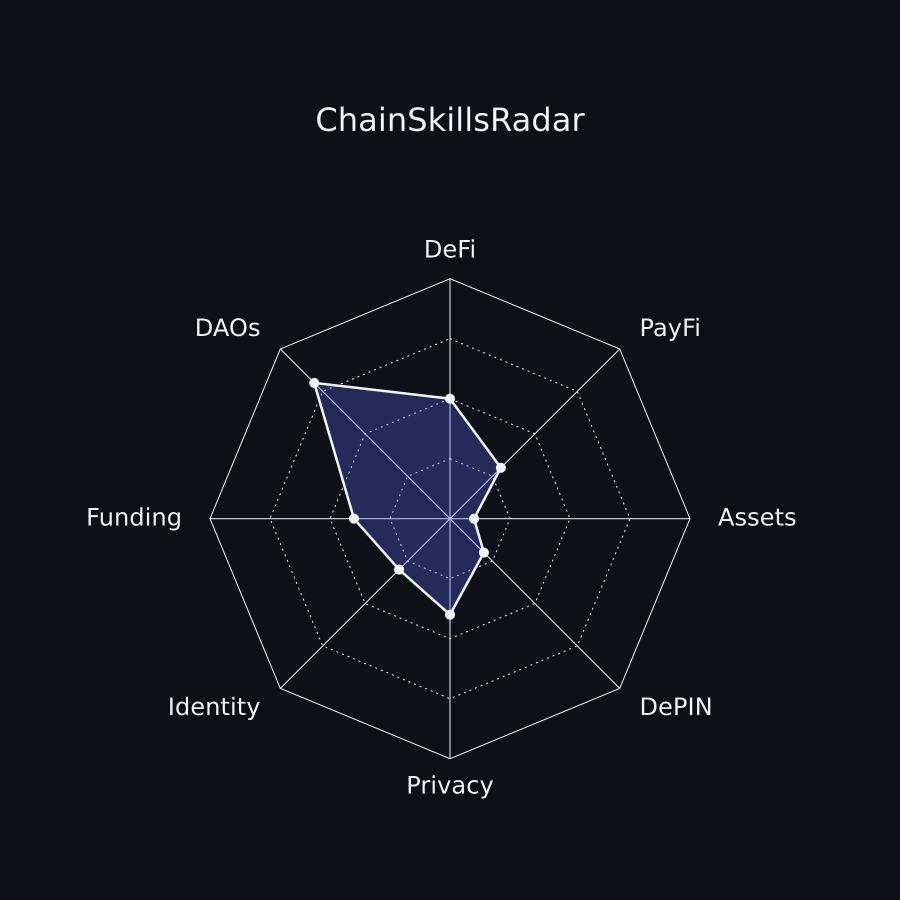
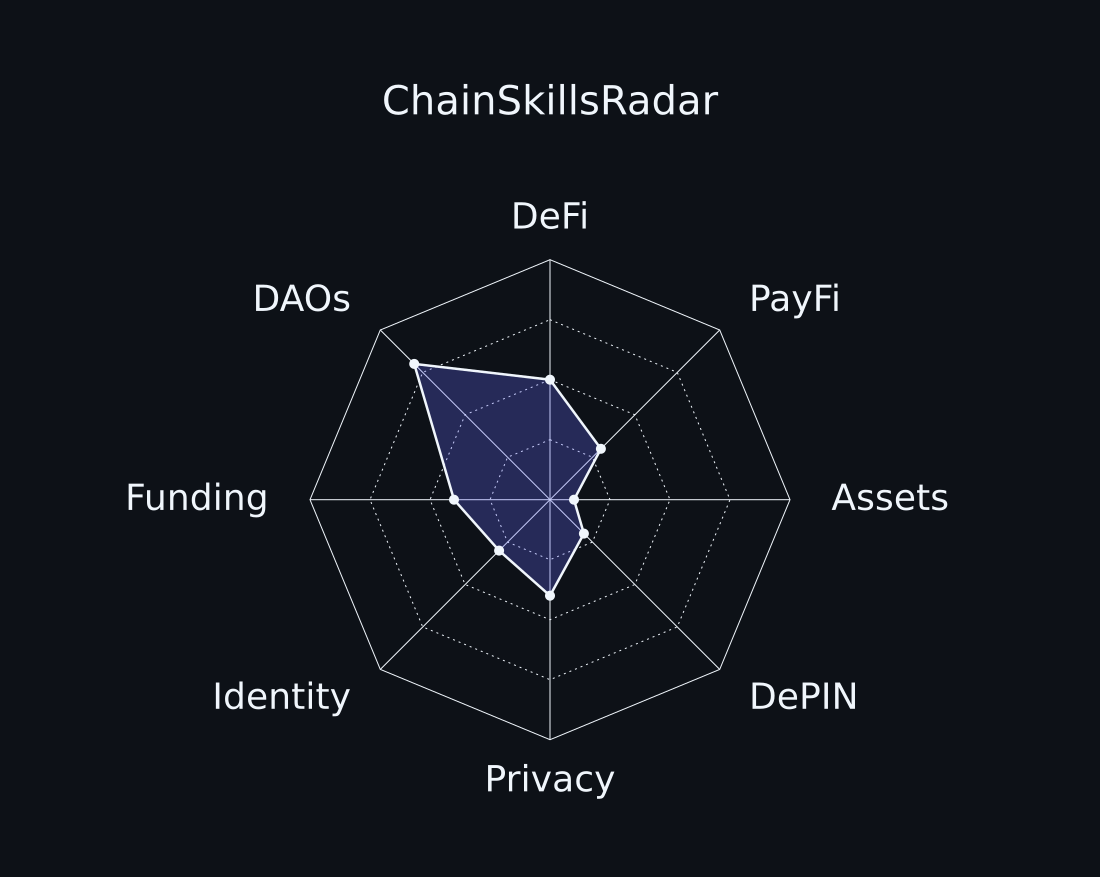
Match bottom spacing to the top title margin

diff --git a/README.md b/README.md
@@ -60,7 +60,7 @@ Use `"format": "square"` in `radar.json` for a 900 × 900 card with 24 px catego
 
 In square format, `size` sets both width and height and takes precedence over existing `width` and `height` fields. The default square radius is 240; an explicit `radius` still overrides it. Increasing label size or decreasing canvas size may require a smaller radius or shorter labels to fit.
 
-A complete example is in `examples/radar-square.json`. Generate it with:
+A complete example with larger 36 px labels, a 40 px title, and an 1100 px-wide canvas and compact bottom spacing is in `examples/radar-square.json`. Generate it with:
 
 ```sh
 npm run generate:square
@@ -82,6 +82,7 @@ After uploading this version to your generator repository, another repository ca
     size: 900
     label_font_size: 24
     title_font_size: 32
+    compact: true
 ```
 
 These inputs override the config. The equivalent CLI flags are `--format`, `--size`, `--label-font-size`, and `--title-font-size`. The config uses camelCase for the two font fields; the Action inputs use underscores.
@@ -131,6 +132,7 @@ All fields except `areas` have defaults. The example above shows the wide layout
 | `theme` | `auto`, `light`, or `dark` (case-insensitive) |
 | `width`, `height` | Safe integers of at least 240; the chart and text must fit |
 | `radius` | Positive finite number that fits within the image (wide: 214, square: 240) |
+| `compact` | Boolean; trim excess bottom space (default: false) |
 | `format` | `wide` (default) or `square` |
 | `size` | Square side length; safe integer of at least 240 (default: 900); ignored in wide format |
 | `labelFontSize` | Positive finite font size in pixels (wide: 15.5, square: 24) |
@@ -139,6 +141,8 @@ All fields except `areas` have defaults. The example above shows the wide layout
 JSON numbers must be numbers, not strings, booleans, or `null`. CLI and Action numeric overrides accept numeric strings and then use the same validation. Categories follow JavaScript object-key order; avoid integer-only names if their order matters.
 
 Each score is converted to a distance of `radius × (score / max)` from the center. The chart has equally spaced axes, polygon grid rings, a filled score polygon, and category labels. Scores are not printed as numbers.
+
+The top margin above the title and the space between the title and chart are half of the original equal-space layout. By default the canvas dimensions stay fixed. To remove the excess bottom space, set `"compact": true` in JSON or `compact: true` in the Action inputs. This matches the bottom margin below the chart and its labels to the top margin above the title, preserving their size and positions. Integer pixel rounding can introduce a difference of less than 1 px. The resulting image can be shorter than a square; use `compact: false` for an exact square.
 
 The radius stays fixed when changing image dimensions. If the image is too small, generation fails with a layout error instead of silently clipping the chart. Increase the dimensions, reduce `radius`, or shorten the title and category names. For example, a compact chart can use `title: "Skills"`, `width: 400`, `height: 400`, and `radius: 120` with short labels. Horizontal text validation uses conservative font-width estimates; the exact font depends on the viewer.
 

diff --git a/CHANGELOG.md b/CHANGELOG.md
@@ -1,5 +1,10 @@
 # Unreleased fixes
 
+- Add optional `compact: true` to crop excess bottom space so the bottom margin matches the top margin above the title, without scaling the chart or text. Enable it in the square example; exact-square output remains available with `compact: false`.
+
+- Halve the top margin above the title and the title-to-chart gap, retaining the canvas dimensions and moving the freed space below the chart.
+- Update the square example and previews to the requested 1100 × 1100 layout with 36 px labels and a 40 px title.
+
 - Add an optional `square` layout (900 × 900), 24 px labels, and a 32 px title; preserve the existing wide layout by default.
 - Add configurable `labelFontSize` and `titleFontSize`, plus CLI and Action overrides for layout, square size, and typography.
 - Include a complete square example and light/dark SVG and PNG previews.
@@ -17,6 +22,6 @@
 
 ## Validation
 
-28 tests pass locally on Node.js 24.22.1. This includes CLI and Action subprocess tests, symlinks, escaped paths, malformed input, layout bounds, extreme numeric scales, square presets, and font/layout overrides in CLI and Action. Default SVG generation matches the original asset byte for byte. Local npm installation and installation from an npm-packed tarball both generate that same SVG. Workflow/Action YAML and SVG XML parse successfully.
+31 tests pass locally on Node.js 24.22.1. This includes CLI and Action subprocess tests, symlinks, escaped paths, malformed input, layout bounds, extreme numeric scales, square presets, and font/layout overrides in CLI and Action. The generated assets and CLI/Action reference comparisons are updated for the tighter title spacing. Local npm installation and installation from an npm-packed tarball were verified in the preceding update. Workflow/Action YAML and SVG XML parse successfully.
 
 The GitHub-hosted workflow, repository write permissions, and bot push must still be verified in the target repository. Node.js 20 and 22 are configured in CI but were not available for local execution. No release tag or remote repository has been published by this update.
